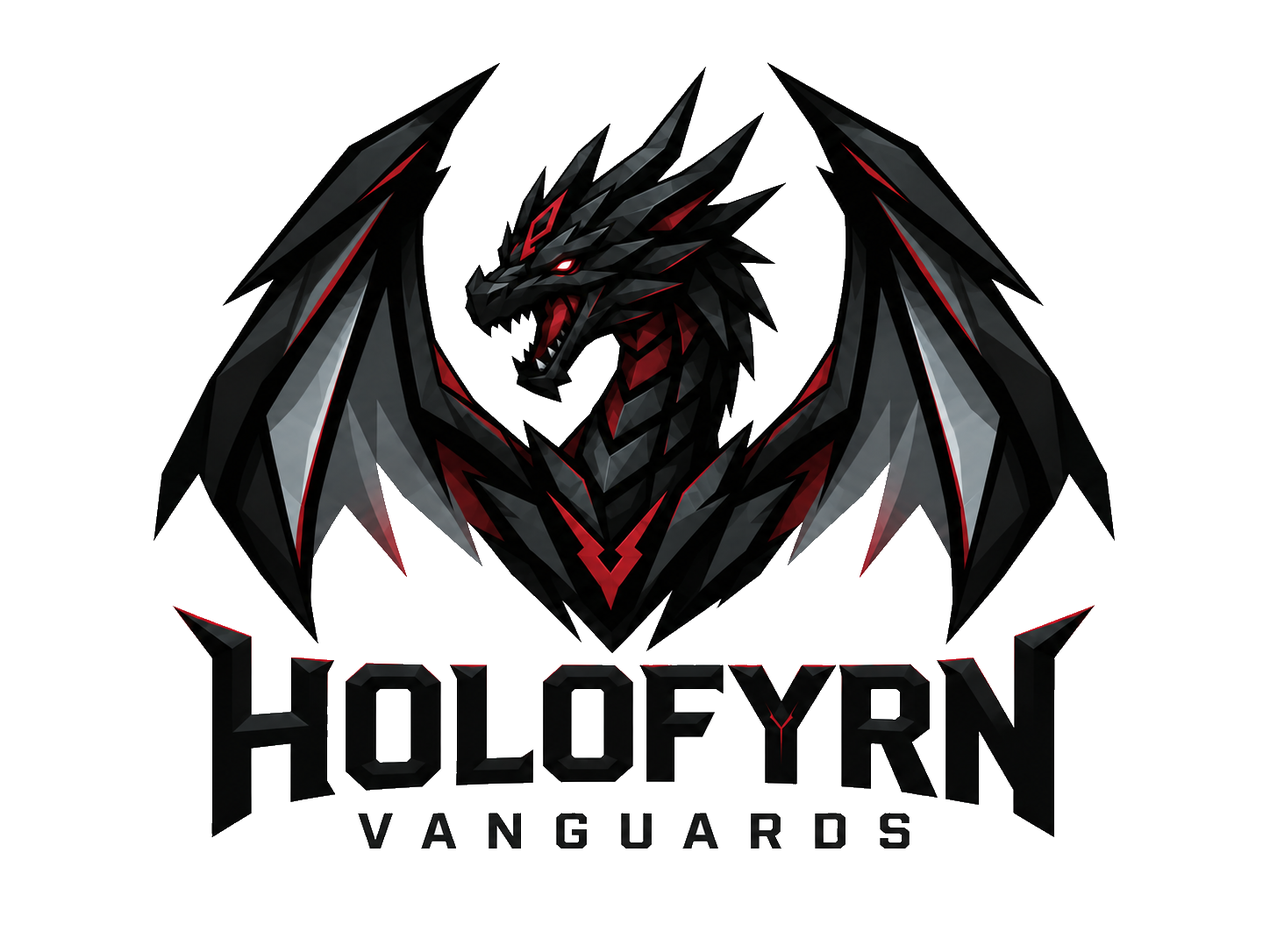
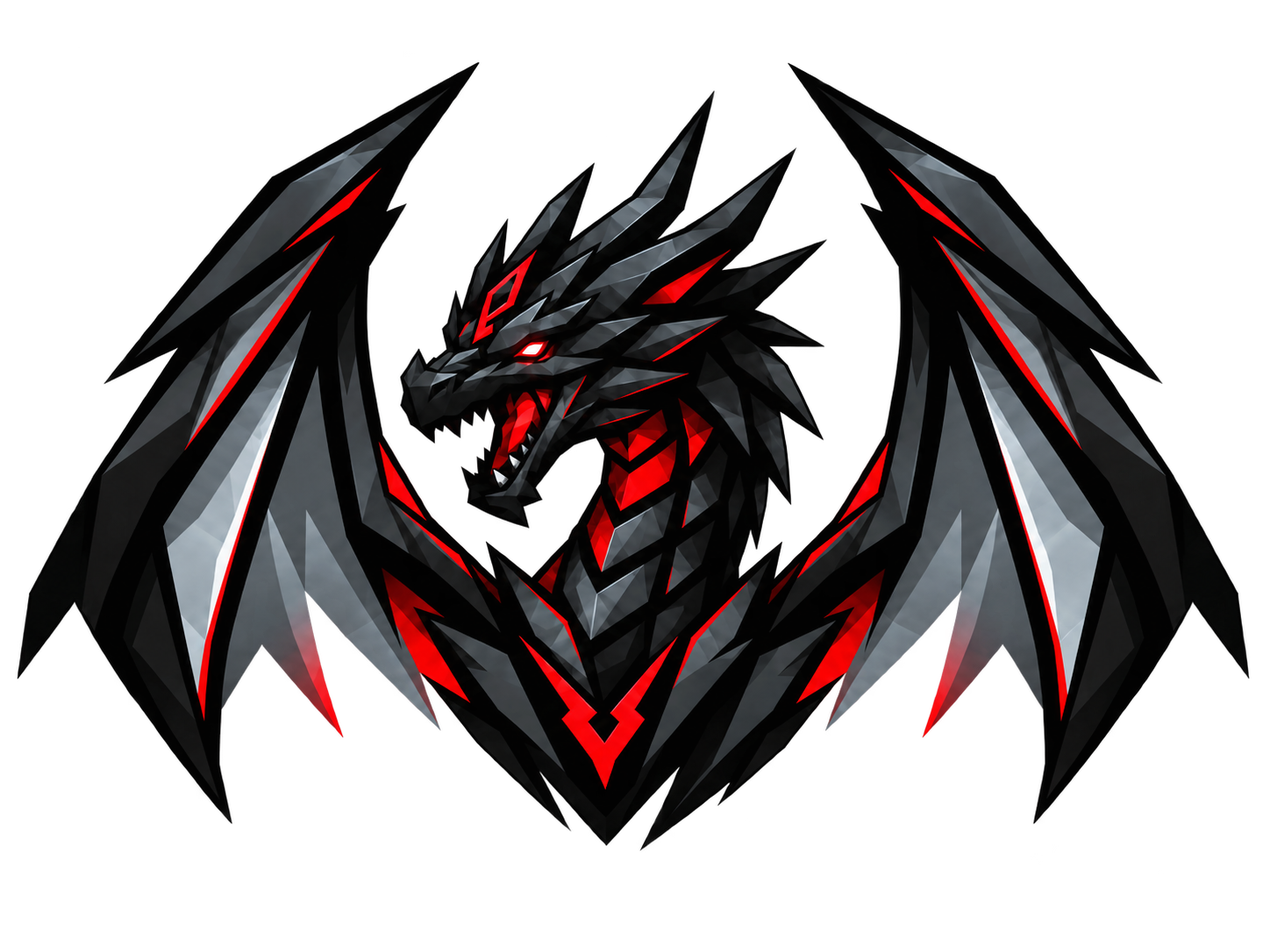
HoloMain19

diff --git a/holofyrnmanager/concept.js b/holofyrnmanager/concept.js
@@ -89,7 +89,7 @@ function overview(){
 }
 function nextLeagueFixture(){return state.leagueGames.filter(g=>!g.played&&(g.home===team().name||g.away===team().name)).sort((a,b)=>a.date.localeCompare(b.date))[0];}
 
-function isRosterCoach(p){return String(p?.role||'').toLowerCase()==='coach';}
+function isRosterCoach(p){return String(model.teamRole(p,state.activeTeam)).toLowerCase()==='coach';}
 let coachingCache = {key:'',status:'idle',notes:[],error:''};
 function resetCoachingCache(){coachingCache={key:'',status:'idle',notes:[],error:''};}
 function coachingScope(){
@@ -98,7 +98,7 @@ function coachingScope(){
   const player=currentPlayer();
   const teamId=isAdmin() || (!isCoach() && player && playerTeamIds(player).includes(state.activeTeam)) ? state.activeTeam : user.teamId;
   if(!teamId || !state.teams.some(t=>t.id===teamId))return null;
-  if(isAdmin() || isCoach())return {teamId,canWrite:true,players:playersForTeam(teamId).filter(p=>!isRosterCoach(p))};
+  if(isAdmin() || isCoach())return {teamId,canWrite:true,players:playersForTeam(teamId).filter(p=>model.teamRole(p,teamId).toLowerCase()!=='coach')};
   if(!player || !playerTeamIds(player).includes(teamId))return null;
   return {teamId,canWrite:false,players:[player]};
 }
@@ -150,7 +150,7 @@ function roster(){const members=model.sortedRoster(playersForTeam(),state.active
 function rosterAvatar(p){return avatarMarkup(linkedUserForPlayer(p.id)||{displayName:p.name,initials:initials(p.name)},'roster-avatar');}
 function renderCoachCard(p){return `<div class="card card-pad coach-row"><div class="roster-identity">${rosterAvatar(p)}<div class="roster-identity-text"><button class="player-name person-link" data-player-view="${esc(p.id)}">${esc(p.name)}</button><div class="player-meta">Coach</div></div></div><div class="coach-discord"><b>Discord:</b> ${esc(p.discord||'—')}</div><div class="card-actions"><button class="btn small" data-player-view="${esc(p.id)}">View profile</button><button class="btn small" data-player-edit="${esc(p.id)}">Edit</button><button class="btn small danger" data-player-delete="${esc(p.id)}">Delete</button></div></div>`;}
 function renderRosterCards(list){
-  return list.length?list.map(p=>{const u=linkedUserForPlayer(p.id);return`<div class="card player-card"><div class="player-head roster-identity">${rosterAvatar(p)}<div class="roster-identity-text"><button class="player-name person-link" data-player-view="${p.id}">${esc(p.name)}</button><div class="player-meta">${esc(p.role)} · ${u?`Linked to <button class="inline-person" data-user-profile="${u.id}">@${esc(u.username)}</button>`:'No account linked'}</div></div></div><div class="mmr-grid"><div class="mmr"><span>1s peak</span><strong>${p.m1??'—'}</strong></div><div class="mmr"><span>2s peak</span><strong>${p.m2??'—'}</strong></div><div class="mmr"><span>3s peak</span><strong>${p.m3??'—'}</strong></div></div><div class="player-details"><div><b>Discord:</b> ${esc(p.discord||'—')}</div><div><b>RL name:</b> ${esc(p.rl||'—')}</div><div><b>Tracker:</b> <a class="tracker-link" href="${esc(safeUrl(p.tracker)||TRACKER_HOME)}" target="_blank" rel="noopener">RL Tracker Link ↗</a></div></div><div class="card-actions"><button class="btn small" data-player-view="${p.id}">View profile</button><button class="btn small" data-player-edit="${p.id}">Edit</button><button class="btn small danger" data-player-delete="${p.id}">Delete</button></div></div>`;}).join(''):'<div class="card empty">No players in this roster.</div>';
+  return list.length?list.map(p=>{const u=linkedUserForPlayer(p.id);return`<div class="card player-card"><div class="player-head roster-identity">${rosterAvatar(p)}<div class="roster-identity-text"><button class="player-name person-link" data-player-view="${p.id}">${esc(p.name)}</button><div class="player-meta">${esc(model.teamRole(p,state.activeTeam))} · ${u?`Linked to <button class="inline-person" data-user-profile="${u.id}">@${esc(u.username)}</button>`:'No account linked'}</div></div></div><div class="mmr-grid"><div class="mmr"><span>1s peak</span><strong>${p.m1??'—'}</strong></div><div class="mmr"><span>2s peak</span><strong>${p.m2??'—'}</strong></div><div class="mmr"><span>3s peak</span><strong>${p.m3??'—'}</strong></div></div><div class="player-details"><div><b>Discord:</b> ${esc(p.discord||'—')}</div><div><b>RL name:</b> ${esc(p.rl||'—')}</div><div><b>Tracker:</b> <a class="tracker-link" href="${esc(safeUrl(p.tracker)||TRACKER_HOME)}" target="_blank" rel="noopener">RL Tracker Link ↗</a></div></div><div class="card-actions"><button class="btn small" data-player-view="${p.id}">View profile</button><button class="btn small" data-player-edit="${p.id}">Edit</button><button class="btn small danger" data-player-delete="${p.id}">Delete</button></div></div>`;}).join(''):'<div class="card empty">No players in this roster.</div>';
 }
 function availability(){
   const roster=playersForTeam(),cp=currentPlayer(),selectable=(isAdmin()||isCoach())?roster:(cp?[cp]:[]),days=weekDates(availabilityWeekStart());
@@ -420,11 +420,11 @@ function bindLeague(){
 }
 function bindCalendar(){document.getElementById('add-event')?.addEventListener('click',()=>eventModal());document.getElementById('cal-prev')?.addEventListener('click',()=>moveCalendar(-1));document.getElementById('cal-next')?.addEventListener('click',()=>moveCalendar(1));document.getElementById('cal-today')?.addEventListener('click',()=>{state.calendarCursor=today().slice(0,7);save();render();});document.querySelectorAll('[data-event-open]').forEach(b=>b.onclick=()=>eventDetailModal(state.events.find(e=>e.id==b.dataset.eventOpen)));}
 
-function playerModal(p=null){const edit=!!p,availableUsers=state.users.filter(u=>!u.linkedPlayerId||u.id===p?.accountId);openModal(edit?'Edit player':'Add player',`<div class="form-grid three"><div class="field"><label>Name</label><input id="p-name" class="input" value="${esc(p?.name||'')}"></div><div class="field"><label>Linked web account</label><select id="p-account" class="select"><option value="">Select account...</option>${availableUsers.map(u=>`<option value="${u.id}">${esc(u.displayName)} · @${esc(u.username)} · ${esc(u.roleLabel)}</option>`).join('')}</select></div><fieldset class="field"><legend>Teams</legend><div class="player-team-options">${state.teams.map(t=>`<label><input type="checkbox" name="p-team" value="${esc(t.id)}"> ${esc(t.name)}</label>`).join('')}</div></fieldset><div class="field"><label>RL name</label><input id="p-rl" class="input" value="${esc(p?.rl||'')}"></div><div class="field"><label>Discord</label><input id="p-discord" class="input" value="${esc(p?.discord||'')}"></div><div class="field"><label>Role</label><select id="p-role" class="select"><option>Captain</option><option>Starter</option><option>Substitute</option><option>Reserve</option><option>Sub</option><option>Player</option><option>Coach</option><option>Manager</option></select></div><div class="field"><label>Peak 1s</label><input id="p-m1" type="number" class="input" value="${esc(p?.m1??'')}"></div><div class="field"><label>Peak 2s</label><input id="p-m2" type="number" class="input" value="${esc(p?.m2??'')}"></div><div class="field"><label>Peak 3s</label><input id="p-m3" type="number" class="input" value="${esc(p?.m3??'')}"></div><div class="field"><label>RL Tracker link</label><input id="p-tracker" class="input" value="${esc(p?.tracker||TRACKER_HOME)}"></div></div><div class="form-grid" style="margin-top:12px"><div class="field"><label>Public bio</label><textarea id="p-bio" class="textarea">${esc(p?.bio||'')}</textarea></div><div class="field"><label>Private coaching notes</label><textarea id="p-private" class="textarea">${esc(p?.private||'')}</textarea></div></div>`,()=>{const accountId=value('p-account'),teamIds=[...document.querySelectorAll('[name="p-team"]:checked')].map(input=>input.value);if(!teamIds.length){toast('Team required','Choose at least one team.');return;}const primary=p?.team&&teamIds.includes(p.team)?p.team:teamIds.includes(state.activeTeam)?state.activeTeam:teamIds[0];teamIds.splice(teamIds.indexOf(primary),1);teamIds.unshift(primary);if(!value('p-name').trim()||!accountId){toast('Player and account required','Every player must be linked to a web account.');return;}if(p?.accountId&&p.accountId!==accountId){const old=userById(p.accountId);if(old)old.linkedPlayerId=null;}const id=p?.id||crypto.randomUUID();const obj={...p,id,accountId,team:teamIds[0],teamIds,name:value('p-name').trim(),rl:value('p-role')==='Coach'?(p?.rl||''):value('p-rl')||value('p-name').trim(),discord:value('p-discord'),role:value('p-role'),m1:numberOrNull('p-m1'),m2:numberOrNull('p-m2'),m3:numberOrNull('p-m3'),tracker:value('p-role')==='Coach'?(p?.tracker||''):value('p-tracker')||TRACKER_HOME,bio:value('p-bio'),private:value('p-private')};const u=userById(accountId);if(u)u.linkedPlayerId=id;state.players=edit?state.players.map(x=>x.id===p.id?obj:x):[obj,...state.players];save();closeModal();render();toast('Saving player',obj.name);});document.getElementById('p-account').value=p?.accountId||'';document.querySelectorAll('[name="p-team"]').forEach(input=>input.checked=(p?playerTeamIds(p):[state.activeTeam]).includes(input.value));document.getElementById('p-role').value=isRosterCoach(p)?'Coach':p?.role||'Player';const updateRoleFields=()=>{const coach=value('p-role')==='Coach';for(const id of ['p-rl','p-m1','p-m2','p-m3','p-tracker']){const input=document.getElementById(id);input.closest('.field').hidden=coach;input.disabled=coach;}};document.getElementById('p-role').addEventListener('change',updateRoleFields);updateRoleFields();}
+function playerModal(p=null){const edit=!!p,availableUsers=state.users;openModal(edit?'Edit player':'Add player',`<div class="form-grid three"><div class="field"><label>Name</label><input id="p-name" class="input" value="${esc(p?.name||'')}"></div><div class="field"><label>Linked web account</label><select id="p-account" class="select"><option value="">Select account...</option>${availableUsers.map(u=>`<option value="${u.id}">${esc(u.displayName)} · @${esc(u.username)} · ${esc(u.roleLabel)}</option>`).join('')}</select></div><fieldset class="field"><legend>Teams and roster roles</legend><div class="player-team-options">${state.teams.map(t=>`<label><input type="checkbox" name="p-team" value="${esc(t.id)}"> ${esc(t.name)}</label><select class="select" data-team-role="${esc(t.id)}" aria-label="${esc(t.name)} roster role">${[...new Set(['Player','Captain','Starter','Substitute','Reserve','Sub','Coach','Manager',...(p&&playerTeamIds(p).includes(t.id)?[model.teamRole(p,t.id)]:[])])].map(role=>`<option ${role===(p&&playerTeamIds(p).includes(t.id)?model.teamRole(p,t.id):'Player')?'selected':''}>${esc(role)}</option>`).join('')}</select>`).join('')}</div></fieldset><div class="field"><label>RL name</label><input id="p-rl" class="input" value="${esc(p?.rl||'')}"></div><div class="field"><label>Discord</label><input id="p-discord" class="input" value="${esc(p?.discord||'')}"></div><div class="field"><label>Peak 1s</label><input id="p-m1" type="number" class="input" value="${esc(p?.m1??'')}"></div><div class="field"><label>Peak 2s</label><input id="p-m2" type="number" class="input" value="${esc(p?.m2??'')}"></div><div class="field"><label>Peak 3s</label><input id="p-m3" type="number" class="input" value="${esc(p?.m3??'')}"></div><div class="field"><label>RL Tracker link</label><input id="p-tracker" class="input" value="${esc(p?.tracker||TRACKER_HOME)}"></div></div><div class="form-grid" style="margin-top:12px"><div class="field"><label>Public bio</label><textarea id="p-bio" class="textarea">${esc(p?.bio||'')}</textarea></div><div class="field"><label>Private coaching notes</label><textarea id="p-private" class="textarea">${esc(p?.private||'')}</textarea></div></div>`,()=>{const accountId=value('p-account'),teamIds=[...document.querySelectorAll('[name="p-team"]:checked')].map(input=>input.value);if(!teamIds.length){toast('Team required','Choose at least one team.');return;}const primary=p?.team&&teamIds.includes(p.team)?p.team:teamIds.includes(state.activeTeam)?state.activeTeam:teamIds[0];teamIds.splice(teamIds.indexOf(primary),1);teamIds.unshift(primary);if(!value('p-name').trim()||!accountId){toast('Player and account required','Every player must be linked to a web account.');return;}if(p?.accountId&&p.accountId!==accountId){const old=userById(p.accountId);if(old)old.linkedPlayerId=null;}const id=p?.id||crypto.randomUUID();const teamRoles=Object.fromEntries([...document.querySelectorAll('[data-team-role]')].filter(input=>teamIds.includes(input.dataset.teamRole)).map(input=>[input.dataset.teamRole,input.value]));const obj={...p,id,accountId,team:teamIds[0],teamIds,teamRoles,name:value('p-name').trim(),rl:value('p-rl')||value('p-name').trim(),discord:value('p-discord'),role:teamRoles[teamIds[0]],m1:numberOrNull('p-m1'),m2:numberOrNull('p-m2'),m3:numberOrNull('p-m3'),tracker:value('p-tracker')||TRACKER_HOME,bio:value('p-bio'),private:value('p-private')};const u=userById(accountId);if(u)u.linkedPlayerId=id;state.players=edit?state.players.map(x=>x.id===p.id?obj:x):[obj,...state.players];save();closeModal();render();toast('Saving player',obj.name);});document.getElementById('p-account').value=p?.accountId||'';document.querySelectorAll('[name="p-team"]').forEach(input=>input.checked=(p?playerTeamIds(p):[state.activeTeam]).includes(input.value));const updateTeamFields=()=>document.querySelectorAll('[data-team-role]').forEach(select=>{select.disabled=![...document.querySelectorAll('[name="p-team"]:checked')].some(input=>input.value===select.dataset.teamRole);});document.querySelectorAll('[name="p-team"]').forEach(input=>input.onchange=updateTeamFields);updateTeamFields();document.getElementById('p-account').onchange=()=>{const linked=linkedPlayerForUser(value('p-account'));if(linked&&linked.id!==p?.id){playerModal(linked);toast('Existing player','Select additional teams and set their roles on this profile.');}};}
 function viewPlayer(p){
   if(!p)return;const u=linkedUserForPlayer(p.id);
   if(isRosterCoach(p)){openModal('Coach profile',`<div class="person-profile-head">${u?avatarMarkup(u,'profile-avatar'):''}<div><h2>${esc(p.name)}</h2><p>Coach</p></div></div><div class="card card-pad"><b>Discord:</b> ${esc(p.discord||'—')}</div>`,null,'Close');return;}
-  openModal(`Player profile · ${p.name}`,`<div class="person-profile-head">${u?avatarMarkup(u,'profile-avatar'):`<span class="avatar profile-avatar">${esc(initials(p.name))}</span>`}<div><h2>${esc(p.name)}</h2><p>${esc(p.role)} · ${esc(playerTeamIds(p).map(id=>state.teams.find(t=>t.id===id)?.name||id).join(', ')||'Team')}</p>${u?`<button class="inline-person" data-user-profile="${u.id}">@${esc(u.username)} · ${esc(u.displayName)}</button>`:''}</div></div><div class="kpis"><div class="card kpi"><div class="label">Peak 1s</div><div class="value">${p.m1??'—'}</div></div><div class="card kpi"><div class="label">Peak 2s</div><div class="value">${p.m2??'—'}</div></div><div class="card kpi"><div class="label">Peak 3s</div><div class="value">${p.m3??'—'}</div></div><div class="card kpi"><div class="label">Web account</div><div class="value small-value">${u?esc(u.username):'—'}</div></div></div><div class="card card-pad"><p><b>RL Tracker:</b> <a class="tracker-link" href="${esc(safeUrl(p.tracker)||TRACKER_HOME)}" target="_blank" rel="noopener">RL Tracker Link ↗</a></p><p><b>Discord:</b> ${esc(p.discord||'—')}</p><p>${esc(p.bio||'No public notes.')}</p></div>`,null,'Close');
+  openModal(`Player profile · ${p.name}`,`<div class="person-profile-head">${u?avatarMarkup(u,'profile-avatar'):`<span class="avatar profile-avatar">${esc(initials(p.name))}</span>`}<div><h2>${esc(p.name)}</h2><p>${esc(model.teamRole(p,state.activeTeam))} · ${esc(playerTeamIds(p).map(id=>state.teams.find(t=>t.id===id)?.name||id).join(', ')||'Team')}</p>${u?`<button class="inline-person" data-user-profile="${u.id}">@${esc(u.username)} · ${esc(u.displayName)}</button>`:''}</div></div><div class="kpis"><div class="card kpi"><div class="label">Peak 1s</div><div class="value">${p.m1??'—'}</div></div><div class="card kpi"><div class="label">Peak 2s</div><div class="value">${p.m2??'—'}</div></div><div class="card kpi"><div class="label">Peak 3s</div><div class="value">${p.m3??'—'}</div></div><div class="card kpi"><div class="label">Web account</div><div class="value small-value">${u?esc(u.username):'—'}</div></div></div><div class="card card-pad"><p><b>RL Tracker:</b> <a class="tracker-link" href="${esc(safeUrl(p.tracker)||TRACKER_HOME)}" target="_blank" rel="noopener">RL Tracker Link ↗</a></p><p><b>Discord:</b> ${esc(p.discord||'—')}</p><p>${esc(p.bio||'No public notes.')}</p></div>`,null,'Close');
   document.querySelectorAll('[data-user-profile]').forEach(b=>b.onclick=()=>{closeModal();openUserPublicProfile(userById(b.dataset.userProfile));});
 }
 function availabilityModal(a){openModal('Edit availability',`<div class="form-grid"><div class="field"><label>Date</label><input id="ae-date" class="input" type="date" value="${esc(a.date)}"></div><div class="field"><label>From</label><input id="ae-from" class="input" type="time" value="${esc(a.from)}"></div><div class="field"><label>Until</label><input id="ae-until" class="input" type="time" value="${esc(a.until)}"></div></div>`,()=>{if(value('ae-from')>=value('ae-until')){toast('Invalid time range');return;}a.date=value('ae-date');a.from=value('ae-from');a.until=value('ae-until');save();closeModal();render();});}
@@ -490,7 +490,7 @@ function eventModal(e=null){
 function createNotification(userId,title,text,view){state.notifications.push({id:crypto.randomUUID()+Math.floor(Math.random()*1000),userId,title,text,view,read:false,created:new Date().toISOString()});}
 function openUserPublicProfile(u){
   if(!u)return;const p=linkedPlayerForUser(u.id);
-  openModal(`Profile · ${u.displayName}`,`<div class="person-profile-head">${avatarMarkup(u,'profile-avatar')}<div><h2>${esc(u.displayName)}</h2><p>@${esc(u.username)} · ${esc(u.roleLabel)}</p>${p?`<button class="inline-person" data-player-view="${p.id}">${esc(p.name)} · ${esc(p.role)}</button>`:''}</div></div><div class="card card-pad"><p>${esc(u.bio||'No bio added.')}</p><div class="social-links">${profileSocialLinks(u)}</div></div>`,null,'Close');
+  openModal(`Profile · ${u.displayName}`,`<div class="person-profile-head">${avatarMarkup(u,'profile-avatar')}<div><h2>${esc(u.displayName)}</h2><p>@${esc(u.username)} · ${esc(u.roleLabel)}</p>${p?`<button class="inline-person" data-player-view="${p.id}">${esc(p.name)} · ${esc(model.teamRole(p,state.activeTeam))}</button>`:''}</div></div><div class="card card-pad"><p>${esc(u.bio||'No bio added.')}</p><div class="social-links">${profileSocialLinks(u)}</div></div>`,null,'Close');
   document.querySelectorAll('[data-player-view]').forEach(b=>b.onclick=()=>{closeModal();viewPlayer(playerById(b.dataset.playerView));});
 }
 function openProfileModal(tab='profile',selectedNotificationId=null){const u=currentUser(),ns=currentNotifications();openModal('My profile',`<div class="profile-tabs"><button class="profile-tab ${tab==='profile'?'active':''}" data-profile-tab="profile">Profile</button><button class="profile-tab ${tab==='notifications'?'active':''}" data-profile-tab="notifications">Notification inbox ${unreadNotifications().length?`(${unreadNotifications().length})`:''}</button></div><div id="profile-tab-body">${tab==='profile'?profileTabMarkup(u)+passwordChangeMarkup():profileNotificationsMarkup(ns,selectedNotificationId)}</div>`,null,'Close');document.querySelectorAll('[data-profile-tab]').forEach(b=>b.onclick=()=>openProfileModal(b.dataset.profileTab));bindProfileBody(tab,u);}

diff --git a/index.html b/index.html
@@ -2107,25 +2107,25 @@
           <span aria-hidden="true">↗</span></a>
       </div>
       <div class="team-grid"><a class="team-card" style="--team-accent:#e91d39" href="#/teams/holofyrn-esport/">
-          <div class="team-card-center"><img src="assets/HolofyrnMain-transparent.png?v=20260930-clean" alt="" loading="lazy"></div>
+          <div class="team-card-center"><img src="assets/HolofyrnMain-transparent.png?v=20260930-cutout-v2" alt="" loading="lazy"></div>
           <h3>HoloFyrn Esports</h3>
         </a><a class="team-card" style="--team-accent:#bd8855" href="#/teams/holofyrn-academy/">
-          <div class="team-card-center"><img src="assets/HolofyrnAcademy-transparent.png?v=20260930-clean" alt="" loading="lazy"></div>
+          <div class="team-card-center"><img src="assets/HolofyrnAcademy-transparent.png?v=20260930-cutout-v2" alt="" loading="lazy"></div>
           <h3>HoloFyrn Academy</h3>
         </a><a class="team-card" style="--team-accent:#a71d3c" href="#/teams/rls-holofyrn-esport/">
           <div class="team-card-center"><img src="assets/RLSHolofyrnMain-transparent.png?v=20260930-clean" alt="" loading="lazy"></div>
           <h3>RLS HoloFyrn Esports</h3>
         </a><a class="team-card" style="--team-accent:#c29a60" href="#/teams/rls-holofyrn-academy/">
-          <div class="team-card-center"><img src="assets/RLSHoloFyrnAcademy-transparent.png?v=20260930-clean" alt="" loading="lazy"></div>
+          <div class="team-card-center"><img src="assets/RLSHoloFyrnAcademy-transparent.png?v=20260930-cutout-v2" alt="" loading="lazy"></div>
           <h3>RLS HoloFyrn Academy</h3>
         </a><a class="team-card" style="--team-accent:#fa7116" href="#/teams/rls-holofyrn-elet/">
           <div class="team-card-center"><img src="assets/RLSHolofyrnEldr-transparent.png?v=20260930-eldr" alt="" loading="lazy"></div>
           <h3>RLS HoloFyrn Eldr</h3>
         </a><a class="team-card" style="--team-accent:#929ba5" href="#/teams/holofyrn-shadows/">
-          <div class="team-card-center"><img src="assets/HoloFyrnShadows-transparent.png?v=20260930-clean" alt="" loading="lazy"></div>
+          <div class="team-card-center"><img src="assets/HoloFyrnShadows-transparent.png?v=20260930-cutout-v2" alt="" loading="lazy"></div>
           <h3>HoloFyrn Shadows</h3>
         </a><a class="team-card" style="--team-accent:#e91d39" href="#/teams/holofyrn-vanguards/">
-          <div class="team-card-center"><img src="assets/HoloFyrnVanguards-transparent.png?v=20260930-clean" alt="" loading="lazy"></div>
+          <div class="team-card-center"><img src="assets/HoloFyrnVanguards-transparent.png?v=20260930-cutout-v2" alt="" loading="lazy"></div>
           <h3>Holofyrn Vanguards</h3>
         </a></div>
     </section>
@@ -2410,25 +2410,25 @@
           <span aria-hidden="true">↗</span></a>
       </div>
       <div class="team-grid"><a class="team-card" style="--team-accent:#e91d39" href="#/teams/holofyrn-esport/">
-          <div class="team-card-center"><img src="assets/HolofyrnMain-transparent.png?v=20260930-clean" alt="" loading="lazy"></div>
+          <div class="team-card-center"><img src="assets/HolofyrnMain-transparent.png?v=20260930-cutout-v2" alt="" loading="lazy"></div>
           <h3>HoloFyrn Esports</h3>
         </a><a class="team-card" style="--team-accent:#bd8855" href="#/teams/holofyrn-academy/">
-          <div class="team-card-center"><img src="assets/HolofyrnAcademy-transparent.png?v=20260930-clean" alt="" loading="lazy"></div>
+          <div class="team-card-center"><img src="assets/HolofyrnAcademy-transparent.png?v=20260930-cutout-v2" alt="" loading="lazy"></div>
           <h3>HoloFyrn Academy</h3>
         </a><a class="team-card" style="--team-accent:#a71d3c" href="#/teams/rls-holofyrn-esport/">
           <div class="team-card-center"><img src="assets/RLSHolofyrnMain-transparent.png?v=20260930-clean" alt="" loading="lazy"></div>
           <h3>RLS HoloFyrn Esports</h3>
         </a><a class="team-card" style="--team-accent:#c29a60" href="#/teams/rls-holofyrn-academy/">
-          <div class="team-card-center"><img src="assets/RLSHoloFyrnAcademy-transparent.png?v=20260930-clean" alt="" loading="lazy"></div>
+          <div class="team-card-center"><img src="assets/RLSHoloFyrnAcademy-transparent.png?v=20260930-cutout-v2" alt="" loading="lazy"></div>
           <h3>RLS HoloFyrn Academy</h3>
         </a><a class="team-card" style="--team-accent:#fa7116" href="#/teams/rls-holofyrn-elet/">
           <div class="team-card-center"><img src="assets/RLSHolofyrnEldr-transparent.png?v=20260930-eldr" alt="" loading="lazy"></div>
           <h3>RLS HoloFyrn Eldr</h3>
         </a><a class="team-card" style="--team-accent:#929ba5" href="#/teams/holofyrn-shadows/">
-          <div class="team-card-center"><img src="assets/HoloFyrnShadows-transparent.png?v=20260930-clean" alt="" loading="lazy"></div>
+          <div class="team-card-center"><img src="assets/HoloFyrnShadows-transparent.png?v=20260930-cutout-v2" alt="" loading="lazy"></div>
           <h3>HoloFyrn Shadows</h3>
         </a><a class="team-card" style="--team-accent:#e91d39" href="#/teams/holofyrn-vanguards/">
-          <div class="team-card-center"><img src="assets/HoloFyrnVanguards-transparent.png?v=20260930-clean" alt="" loading="lazy"></div>
+          <div class="team-card-center"><img src="assets/HoloFyrnVanguards-transparent.png?v=20260930-cutout-v2" alt="" loading="lazy"></div>
           <h3>Holofyrn Vanguards</h3>
         </a></div>
     </section>
@@ -3209,25 +3209,25 @@
     </div>
     <section class="section container page-section">
       <div class="team-grid"><a class="team-card" style="--team-accent:#e91d39" href="#/teams/holofyrn-esport/">
-          <div class="team-card-center"><img src="assets/HolofyrnMain-transparent.png?v=20260930-clean" alt="" loading="lazy"></div>
+          <div class="team-card-center"><img src="assets/HolofyrnMain-transparent.png?v=20260930-cutout-v2" alt="" loading="lazy"></div>
           <h3>HoloFyrn Esport</h3>
         </a><a class="team-card" style="--team-accent:#bd8855" href="#/teams/holofyrn-academy/">
-          <div class="team-card-center"><img src="assets/HolofyrnAcademy-transparent.png?v=20260930-clean" alt="" loading="lazy"></div>
+          <div class="team-card-center"><img src="assets/HolofyrnAcademy-transparent.png?v=20260930-cutout-v2" alt="" loading="lazy"></div>
           <h3>HoloFyrn Academy</h3>
         </a><a class="team-card" style="--team-accent:#a71d3c" href="#/teams/rls-holofyrn-esport/">
           <div class="team-card-center"><img src="assets/RLSHolofyrnMain-transparent.png?v=20260930-clean" alt="" loading="lazy"></div>
           <h3>RLS HoloFyrn Esport</h3>
         </a><a class="team-card" style="--team-accent:#c29a60" href="#/teams/rls-holofyrn-academy/">
-          <div class="team-card-center"><img src="assets/RLSHoloFyrnAcademy-transparent.png?v=20260930-clean" alt="" loading="lazy"></div>
+          <div class="team-card-center"><img src="assets/RLSHoloFyrnAcademy-transparent.png?v=20260930-cutout-v2" alt="" loading="lazy"></div>
           <h3>RLS HoloFyrn Academy</h3>
         </a><a class="team-card" style="--team-accent:#fa7116" href="#/teams/rls-holofyrn-elet/">
           <div class="team-card-center"><img src="assets/RLSHolofyrnEldr-transparent.png?v=20260930-eldr" alt="" loading="lazy"></div>
           <h3>RLS HoloFyrn Eldr</h3>
         </a><a class="team-card" style="--team-accent:#929ba5" href="#/teams/holofyrn-shadows/">
-          <div class="team-card-center"><img src="assets/HoloFyrnShadows-transparent.png?v=20260930-clean" alt="" loading="lazy"></div>
+          <div class="team-card-center"><img src="assets/HoloFyrnShadows-transparent.png?v=20260930-cutout-v2" alt="" loading="lazy"></div>
           <h3>HoloFyrn Shadows</h3>
         </a><a class="team-card" style="--team-accent:#e91d39" href="#/teams/holofyrn-vanguards/">
-          <div class="team-card-center"><img src="assets/HoloFyrnVanguards-transparent.png?v=20260930-clean" alt="" loading="lazy"></div>
+          <div class="team-card-center"><img src="assets/HoloFyrnVanguards-transparent.png?v=20260930-cutout-v2" alt="" loading="lazy"></div>
           <h3>Holofyrn Vanguards</h3>
         </a></div>
     </section>
@@ -3943,6 +3943,7 @@
     .team-card[href="#/teams/rls-holofyrn-academy/"] { --team-background: url('assets/RLSHolofyrnacademyBG.png'); }
     .team-card[href="#/teams/rls-holofyrn-elet/"] { --team-background: url('assets/RLSHoloFyrnEldBG.png'); }
     .team-card[href="#/teams/holofyrn-shadows/"] { --team-background: url('assets/HolofyrnShadowsBG.png'); }
+    .team-card[href="#/teams/holofyrn-vanguards/"] { --team-background: url('assets/HoloFyrnVanguardsBG.png?v=20260930'); }
     .team-card {
       background-image: var(--team-background, linear-gradient(140deg, #212020, #121212 68%));
       background-position: center;

diff --git a/holofyrnmanager/connected.js b/holofyrnmanager/connected.js
@@ -149,7 +149,7 @@ function showLogin(message=''){
 }
 async function startManager(){
   try{
-    const [data,publicData,{firebaseConfig},appApi,fire,authApi]=await Promise.all([import('./manager-data.mjs?v=20260930-order'),import('./public-data.mjs?v=20260930-order'),import('./firebaseConfig.js'),import('https://www.gstatic.com/firebasejs/10.12.5/firebase-app.js'),import('https://www.gstatic.com/firebasejs/10.12.5/firebase-firestore.js'),import('https://www.gstatic.com/firebasejs/10.12.5/firebase-auth.js')]);
+    const [data,publicData,{firebaseConfig},appApi,fire,authApi]=await Promise.all([import('./manager-data.mjs?v=20260930-team-roles'),import('./public-data.mjs?v=20260930-team-roles'),import('./firebaseConfig.js'),import('https://www.gstatic.com/firebasejs/10.12.5/firebase-app.js'),import('https://www.gstatic.com/firebasejs/10.12.5/firebase-firestore.js'),import('https://www.gstatic.com/firebasejs/10.12.5/firebase-auth.js')]);
     model=data;publicModel=publicData;
     const app=appApi.initializeApp(firebaseConfig),db=fire.initializeFirestore(app,{experimentalAutoDetectLongPolling:true,useFetchStreams:false}),auth=authApi.getAuth(app);
     services={appApi,fire,authApi,db,auth,firebaseConfig,storeRef:fire.doc(db,'noctiqManager','main'),publicRef:fire.doc(db,'holofyrnPublic','main')};

diff --git a/public-data-v3.js b/public-data-v3.js
@@ -1,5 +1,5 @@
 import {matchesForNextDay, todayInBudapest} from './public-matches.mjs';
-import {rosterRole, sortedRoster} from './public-roster.mjs?v=20260930-order';
+import {rosterRole, sortedRoster, teamRole} from './public-roster.mjs?v=20260930-team-roles';
 
 const teamRoutes = {
   '/teams/holofyrn-esport/': 'main',
@@ -236,7 +236,7 @@ function renderPlayers(grid, players, team) {
     grid.replaceChildren(emptyMessage(loadError ? 'Player data is temporarily unavailable.' : 'No players listed yet.', loadError ? 'A játékosadatok átmenetileg nem érhetők el.' : 'Még nincsenek játékosok feltüntetve.'));
     return;
   }
-  grid.replaceChildren(...sortedRoster(players, team).map(playerCard));
+  grid.replaceChildren(...sortedRoster(players, team).map((player,index)=>playerCard({...player,role:teamRole(player,team)},index)));
 }
 
 function renderUpcomingMatches(matches) {

diff --git a/holofyrnmanager/index.html b/holofyrnmanager/index.html
@@ -8,9 +8,9 @@
     <title>HoloFyrn Manager</title>
     <link rel="icon" href="assets/holofyrn-logo.png" />
     <link rel="stylesheet" href="concept.css" />
-    <link rel="stylesheet" href="connected.css?v=20260930-order" />
-    <script defer src="connected.js?v=20260930-order"></script>
-    <script defer src="concept.js?v=20260930-order"></script>
+    <link rel="stylesheet" href="connected.css?v=20260930-team-roles" />
+    <script defer src="connected.js?v=20260930-team-roles"></script>
+    <script defer src="concept.js?v=20260930-team-roles"></script>
   </head>
   <body>
     <div id="app">
